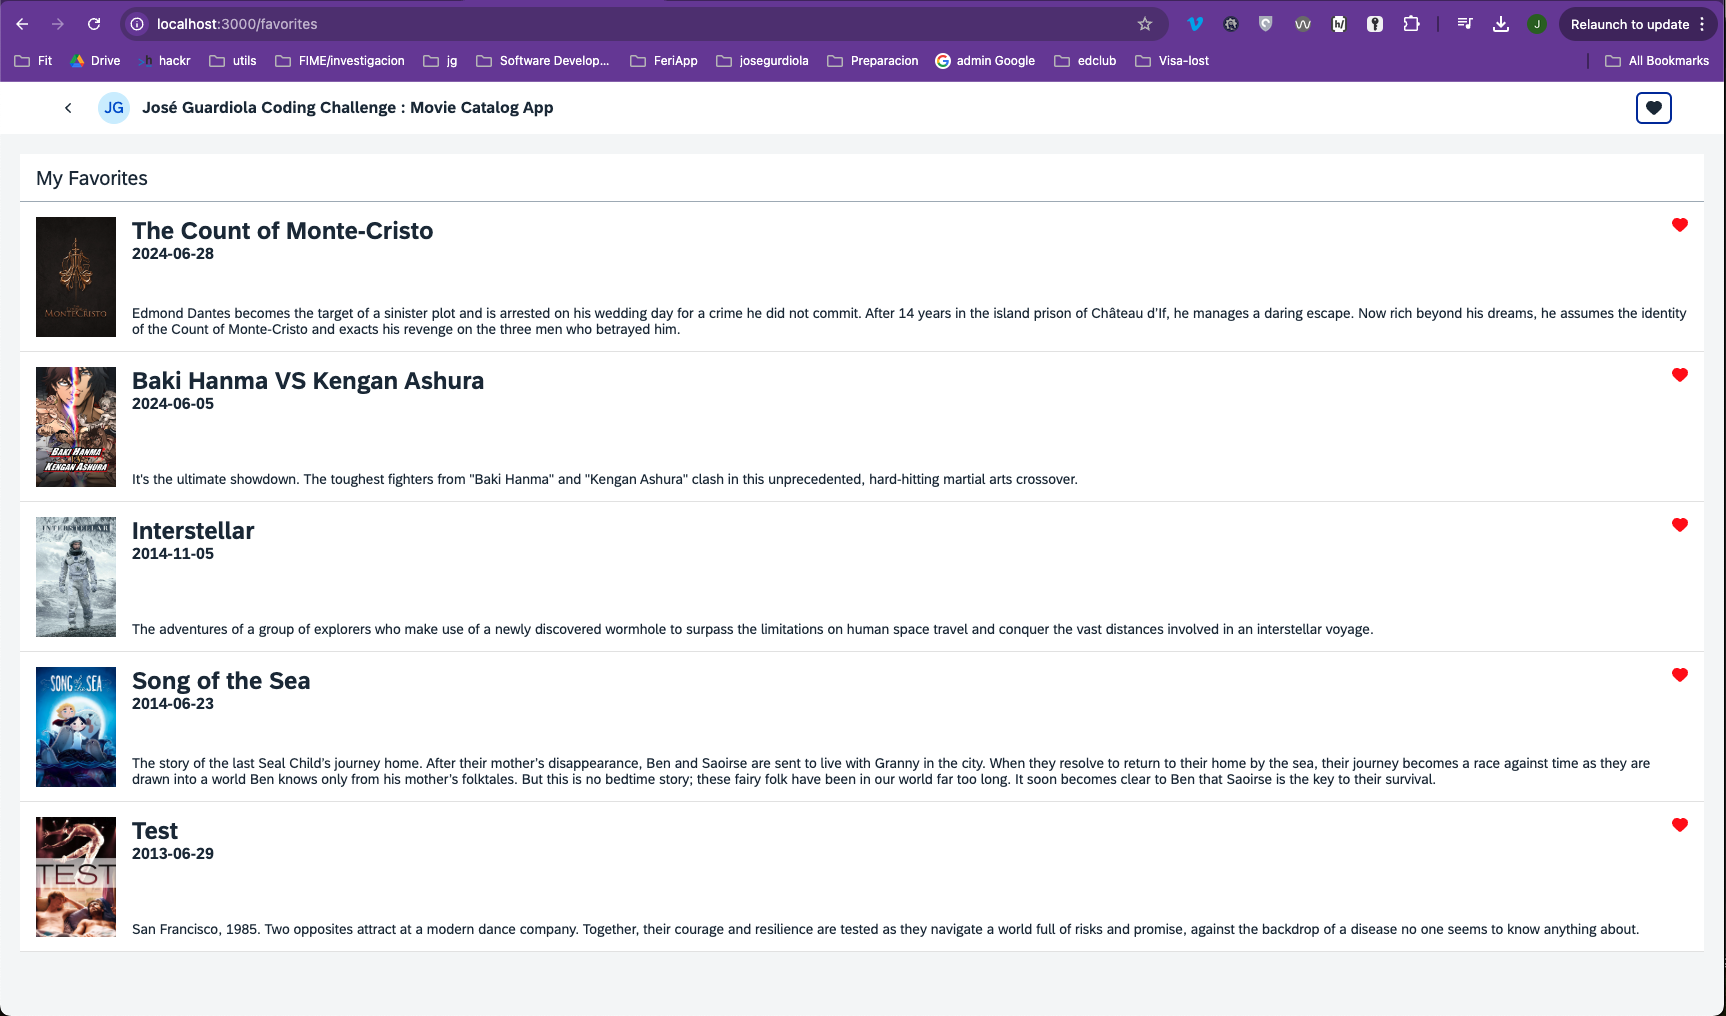
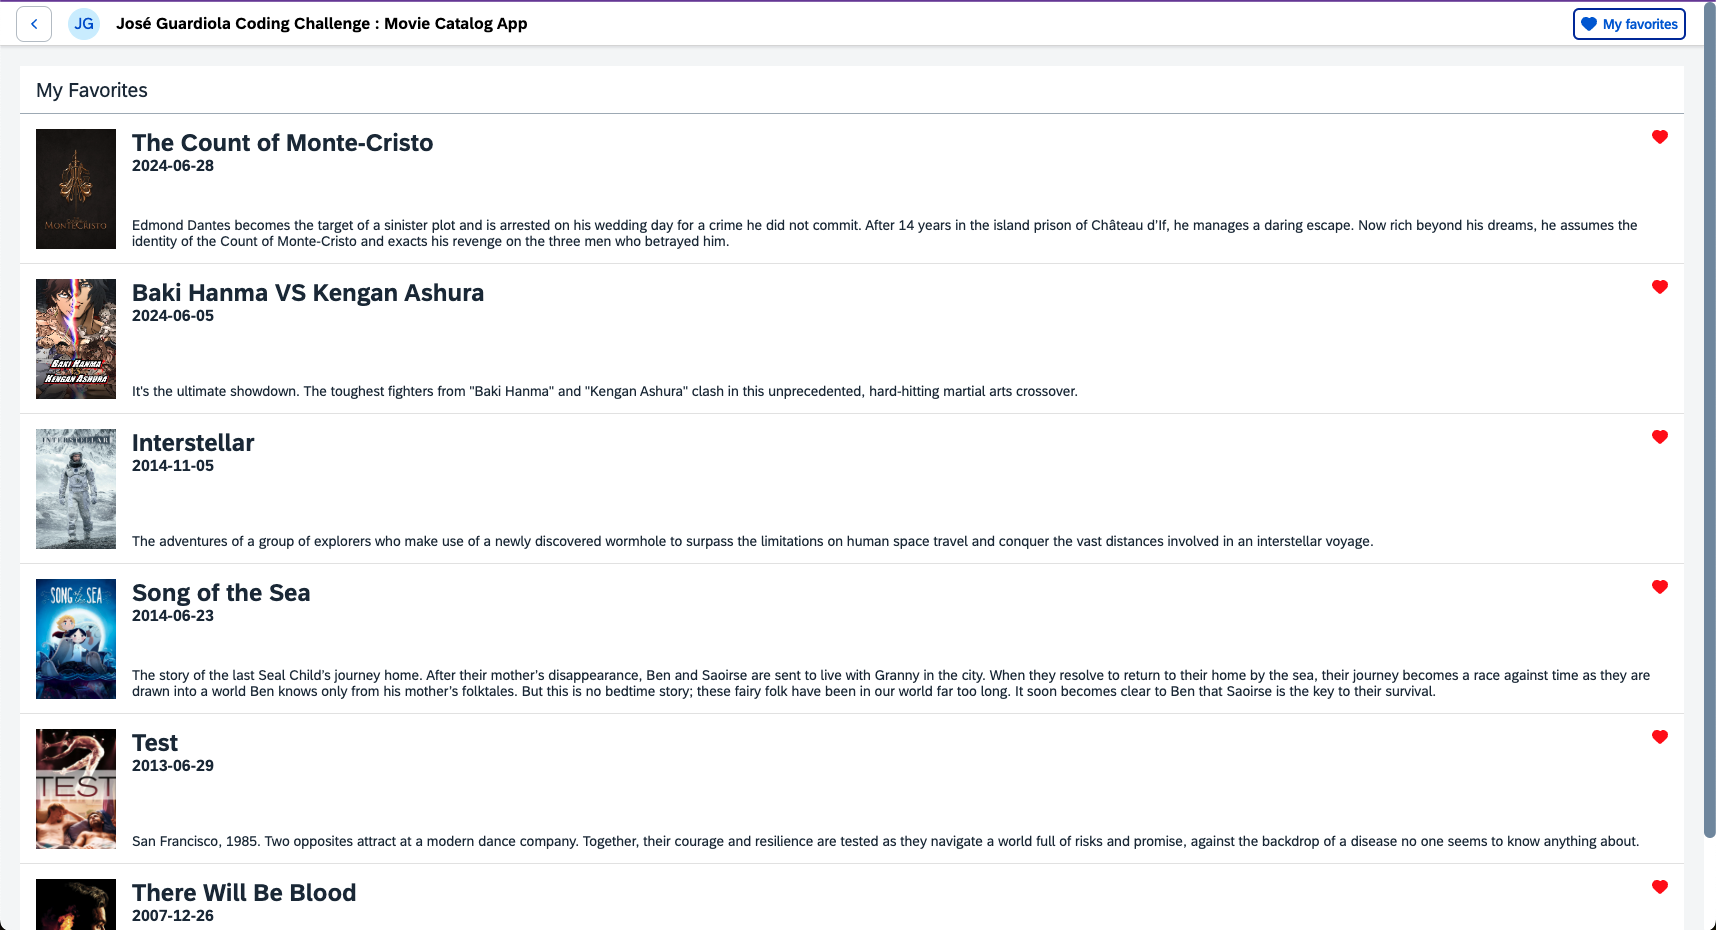
feat: update top bar

Changed region(s): [[0.0, 0.0, 1.0, 1.0], [0.9883, 0.9667, 1.0, 1.0], [0.9575, 0.9355, 0.9883, 0.9667]]

diff --git a/app/components/AppShell/AppShell.tsx b/app/components/AppShell/AppShell.tsx
@@ -1,7 +1,7 @@
 import navBackIcon from '@ui5/webcomponents-icons/dist/nav-back.js';
 import HeartIcon from '@ui5/webcomponents-icons/dist/heart.js';
 import { usePathname, useRouter } from 'next/navigation';
-import { Avatar, Button, ShellBar, ShellBarItem, Title, ThemeProvider } from '@ui5/webcomponents-react';
+import { Avatar, Button, ThemeProvider, Bar } from '@ui5/webcomponents-react';
 import { ReactNode } from 'react';
 
 import styles from './AppShell.module.css';
@@ -14,30 +14,31 @@ export const AppShell = ({ children }: AppShellProps) => {
   const router = useRouter();
   const pathname = usePathname();
 
+  const handleBackClick = () => {
+    router.back();
+  };
+
+  const handleFavoritesClick = () => {
+    router.push('/favorites');
+  };
+
   return (
     <ThemeProvider staticCssInjected>
-      <ShellBar
-        logo={<Avatar initials="JG" size="XS" />}
-        primaryTitle="José Guardiola Coding Challenge : Movie Catalog App"
-        startButton={
-          pathname !== '/' && (
-            <Button
-              icon={navBackIcon}
-              onClick={() => {
-                router.back();
-              }}
-            />
-          )
+      <Bar
+        design="Header"
+        startContent={
+          <div className={styles.startContent}>
+            {pathname !== '/' && <Button icon={navBackIcon} onClick={handleBackClick} />}
+            <Avatar initials="JG" size="XS" />
+            <strong>José Guardiola Coding Challenge : Movie Catalog App</strong>
+          </div>
         }
-      >
-        <ShellBarItem
-          icon={HeartIcon}
-          text="My Favorites"
-          onClick={() => {
-            router.push('/favorites');
-          }}
-        />
-      </ShellBar>
+        endContent={
+          <Button icon={HeartIcon} design="Transparent" onClick={handleFavoritesClick}>
+            My favorites
+          </Button>
+        }
+      ></Bar>
       <div className={styles.appShell}>{children}</div>
     </ThemeProvider>
   );

diff --git a/app/components/AppShell/AppShell.module.css b/app/components/AppShell/AppShell.module.css
@@ -1,3 +1,9 @@
 .appShell {
   padding: 20px;
 }
+
+.startContent {
+  display: flex;
+  gap: 1rem;
+  align-items: center;
+}
